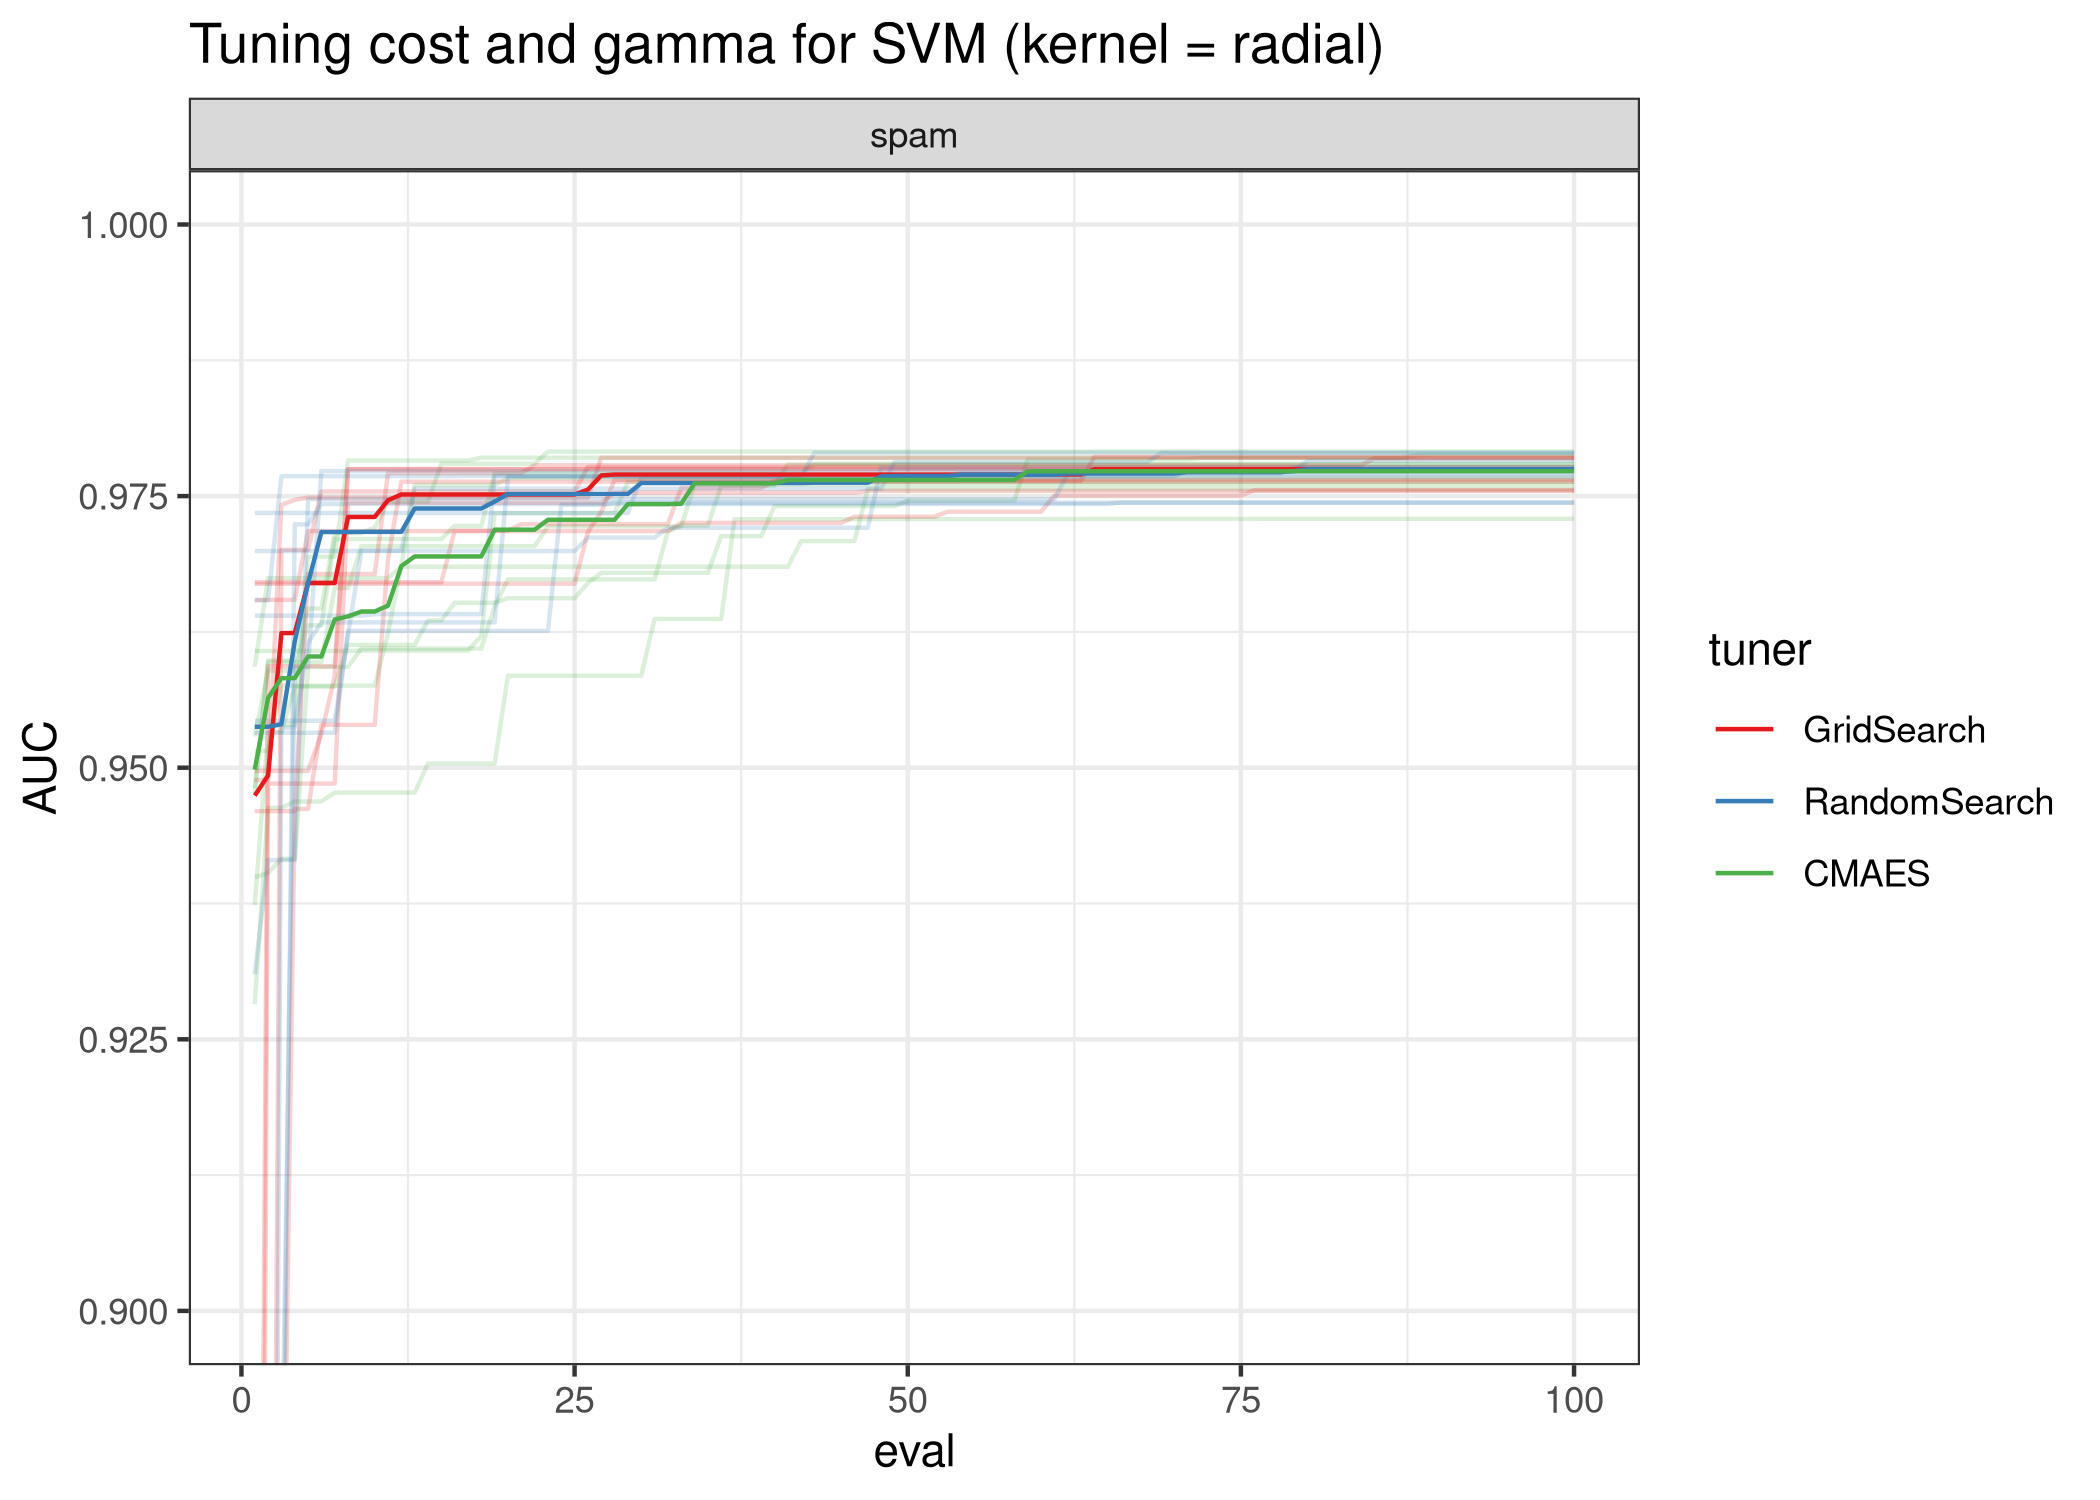
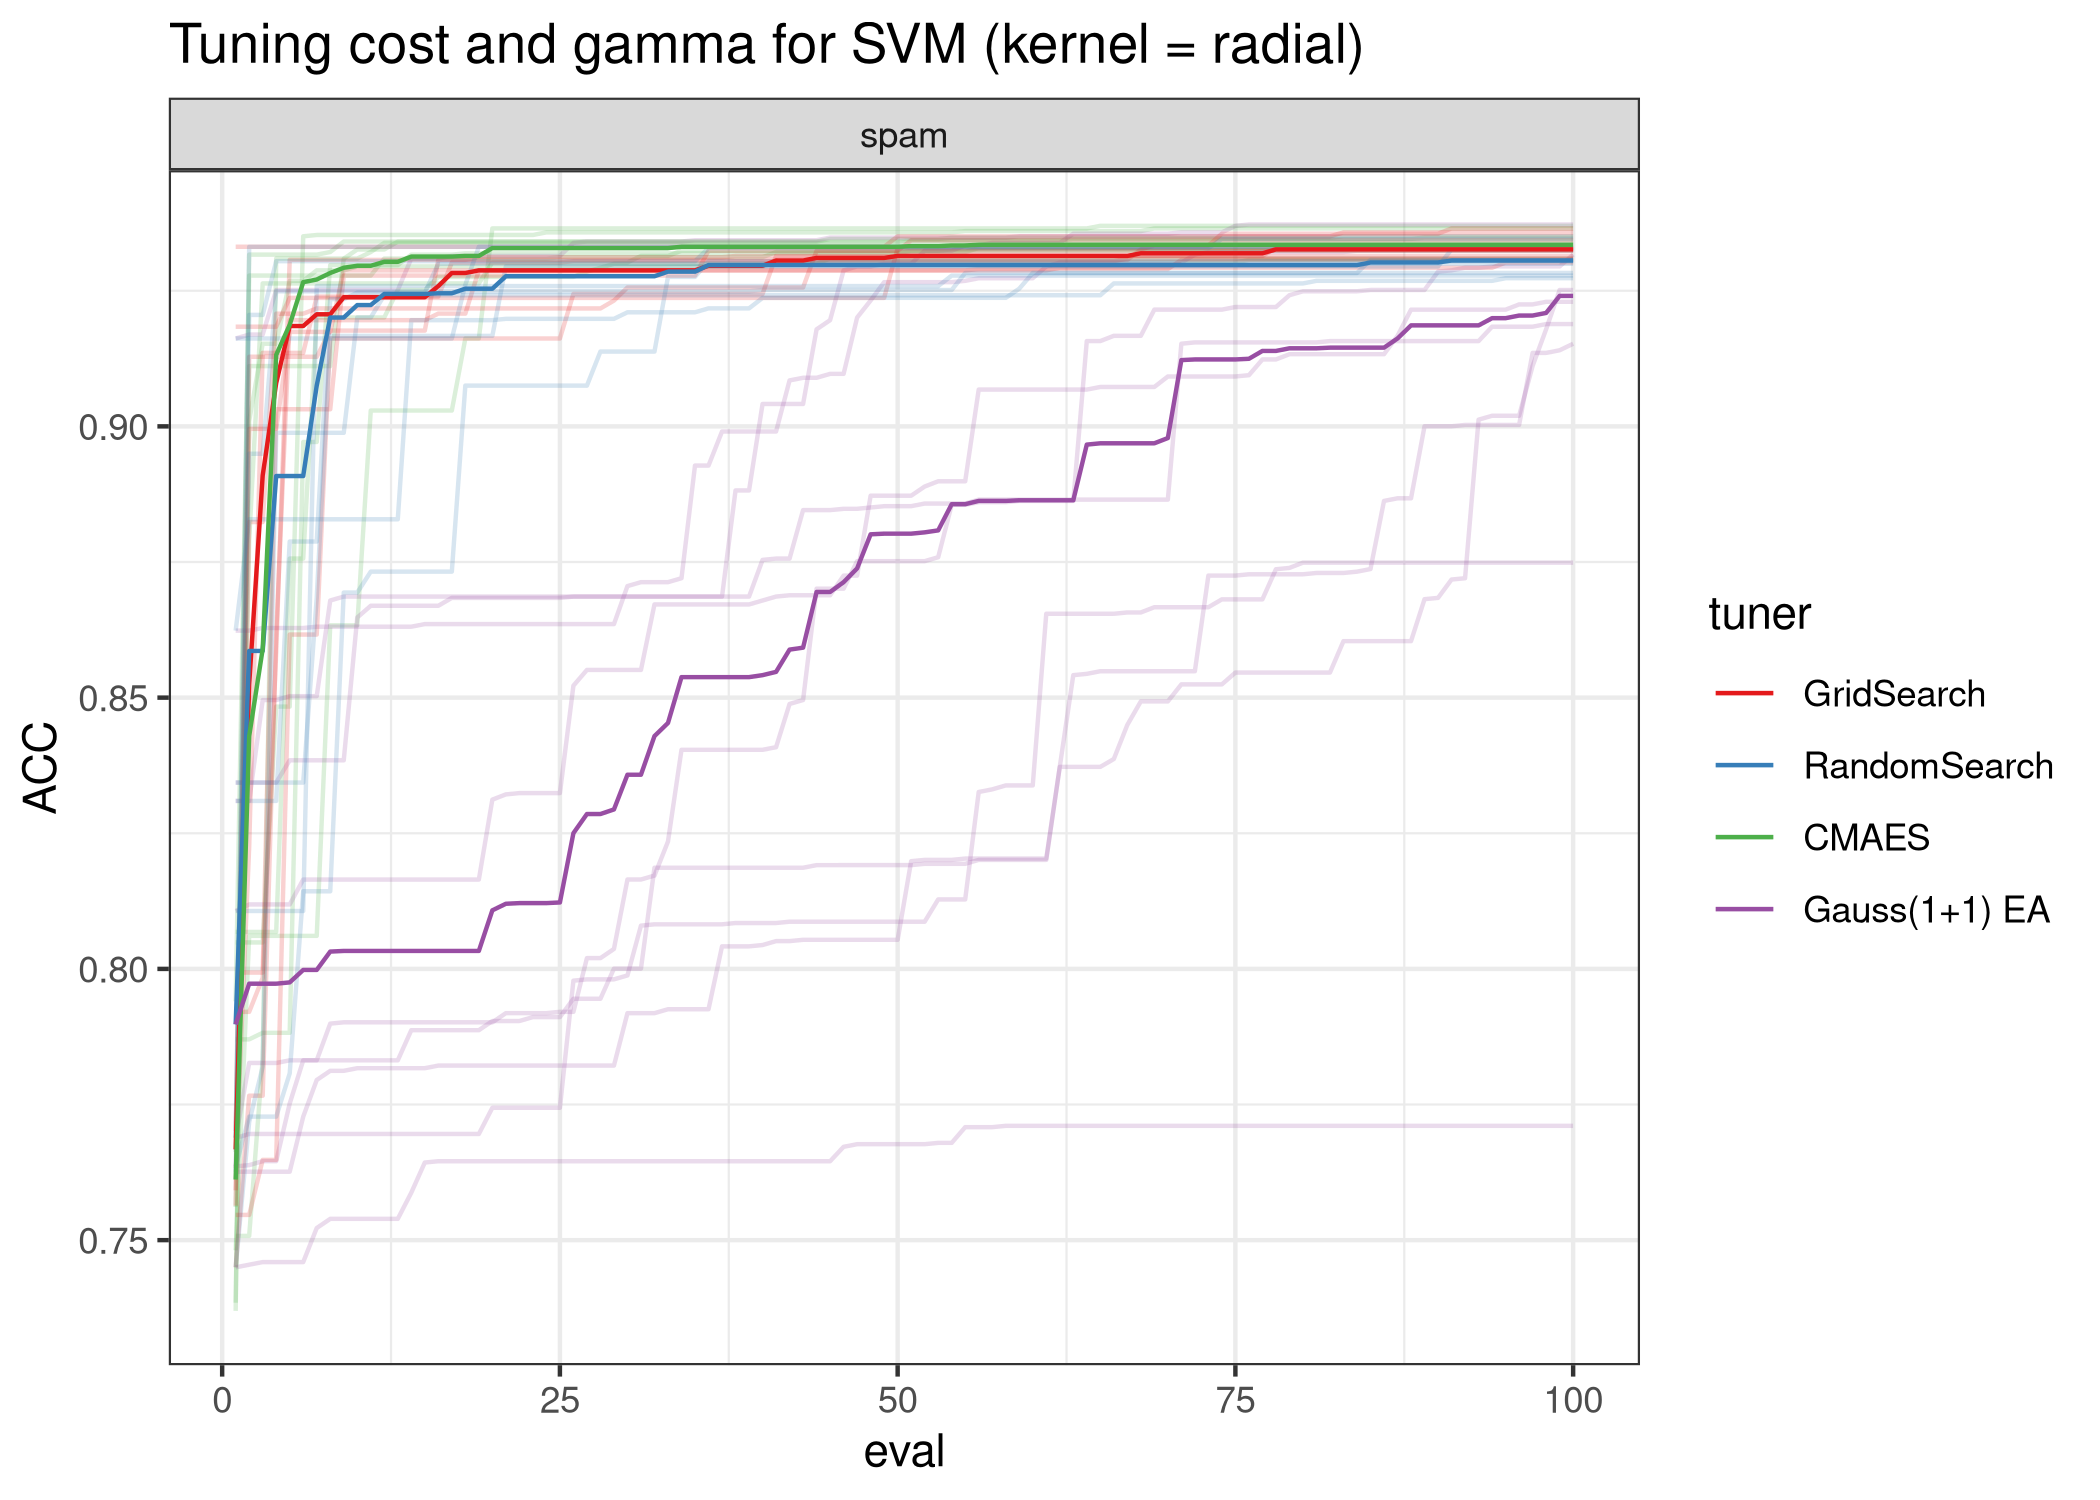
fixes ranges

diff --git a/w04_hpo_basics/t04_practical.tex b/w04_hpo_basics/t04_practical.tex
@@ -19,26 +19,44 @@
 \end{itemize}
 
     \vspace{0.2cm}
-Example: regularization hyperparameter ($C$ or \emph{cost}) of SVM: $[0.001, 1000.0]$
+Example: regularization hyperparameter ($C$ or \emph{cost}) of SVM: $[2^{-15}, 2^{15}] \approx [0.000031, 32768]$
 
 \begin{itemize}
-	\item The distance between $999.9$ and $1000.0$ should not be the same as between $0.1$ and $0.2$.
-  \item We might want to sample here from from a log-scale, e.g., $[10^{\conf_l}, 10^{\conf_u}]$ with $\conf_l = -3$ and $\conf_u = 3$.
+	\item The distance between $100$ and $200$ should not be the same as between $0.1$ and $0.2$.
+  \item We might want to sample here from from a log-scale, e.g., $[2^{\conf_l}, 2^{\conf_u}]$ with $\conf_l = -15$ and $\conf_u = 15$.
 \end{itemize}
 
 \begin{figure}[htb]
 \centering
+  % \begin{tikzpicture}[auto]%[scale=1.5]
+  %   \draw [->](-0.3,0)-- (12.3,0) coordinate;
+  %   \draw [->](-0.3,-2)-- (12.3,-2) coordinate;
+  %   \foreach \x/\xtext/\xxtext in {-3/-3/0.001, -2/-2/ , -1/-1/, 0/0/, 1/1/, 2/2/100, 3/3/1000} {
+  %     \draw [very thick] ({\x*2+6},-2pt) -- ++(0, 4pt) node[xshift = -6pt, yshift=-3pt,anchor=south west,baseline]{\strut$\xtext$};
+  %     \draw [very thick] ({10^(\x)*0.012},-2cm+2pt) -- ++(0,-4pt) node[anchor=north]{$\xxtext$};
+  %     \draw [->] ({\x*2+6},-2pt) .. controls ({\x*2+6},-0.5) and ({10^(\x)*0.012},-1.5) .. ({10^(\x)*0.012},-2cm+2pt);
+  %   }
+  %   \node[] at (-0.7,-0.1) (t1) {$\conf$};
+  %   \node[] at (-0.7,-1.9) (t2) {$10^{\conf}$};
+  % \end{tikzpicture}
+
   \begin{tikzpicture}[auto]%[scale=1.5]
     \draw [->](-0.3,0)-- (12.3,0) coordinate;
     \draw [->](-0.3,-2)-- (12.3,-2) coordinate;
-    \foreach \x/\xtext/\xxtext in {-3/-3/0.001, -2/-2/ , -1/-1/, 0/0/, 1/1/, 2/2/100, 3/3/1000} {
-      \draw [very thick] ({\x*2+6},-2pt) -- ++(0, 4pt) node[xshift = -6pt, yshift=-3pt,anchor=south west,baseline]{\strut$\xtext$};
-      \draw [very thick] ({10^(\x)*0.012},-2cm+2pt) -- ++(0,-4pt) node[anchor=north]{$\xxtext$};
-      \draw [->] ({\x*2+6},-2pt) .. controls ({\x*2+6},-0.5) and ({10^(\x)*0.012},-1.5) .. ({10^(\x)*0.012},-2cm+2pt);
+    % \foreach \x/\xtext/\xxtext in {-15/-15/0.000031, -10/-10/ , -5/-5/, 0/0/1, 5/5/32, 10/10/1024, 15/15/32768} {
+    \def\xM{15} % max exponent
+    \def\xW{12} % max width in cm
+    \foreach \x/\xtext/\xxtext in {-15/-15/0, -10/-10/ , -5/-5/, 0/0/, 5/5/, 10/10/1024, 15/15/32768} {
+      \def\xA{{(\x + \xM) * (\xW / (2 * \xM))}} %untrafoed val in cm (0 to 12)
+      \def\xB{{\xW * 2^(\x-\xM)}} %trafoed val in cm
+      \draw [very thick] (\xA,-2pt) -- ++(0, 4pt) node[xshift = -6pt, yshift=-3pt,anchor=south west,baseline]{\strut$\xtext$};
+      \draw [very thick] (\xB,-2cm+2pt) -- ++(0,-4pt) node[anchor=north]{\scriptsize $\xxtext$};
+      \draw [->] (\xA,-2pt) .. controls (\xA,-0.5) and (\xB,-1.5) .. (\xB,-2cm+2pt);
     }
-    \node[] at (-0.7,-0.1) (t1) {$\conf$};
-    \node[] at (-0.7,-1.9) (t2) {$10^{\conf}$};
+    \node[] at (-0.7,-0.1) (t1) {$\tilde{\theta}_l$};
+    \node[] at (-0.7,-1.9) (t2) {$2^{\tilde{\theta}_l}$};
   \end{tikzpicture}
+
 \end{figure}
 
 \framebreak
@@ -49,12 +67,12 @@ Example: regularization hyperparameter ($C$ or \emph{cost}) of SVM: $[0.001, 100
         \item If $\finconf$ is close to the border of $\pcs$ the ranges should be increased (or a different scale should be selected).
         \item Meta-Learning can help to decide which hyperparameters should be tuned in which ranges.
     \end{itemize}
-    \vspace{0.5cm}
-    Example:
-    \begin{itemize}
-            \item The ranges for $\text{cost} \in [10^{-3}, 10^3]$ and $\gamma \in [10^{-3}, 10^3]$ are rather small.
-            \item More common would be ranges like $\text{cost} \in [2^{-15}, 2^{15}]$ and $\gamma \in [2^{-15}, 2^{15}]$.
-    \end{itemize}
+    % \vspace{0.5cm}
+    % Example:
+    % \begin{itemize}
+    %         \item The ranges for $\text{cost} \in [10^{-3}, 10^3]$ and $\gamma \in [10^{-3}, 10^3]$ are rather small.
+    %         \item More common would be ranges like $\text{cost} \in [2^{-15}, 2^{15}]$ and $\gamma \in [2^{-15}, 2^{15}]$.
+    % \end{itemize}
 
 \end{frame}
 
@@ -69,8 +87,8 @@ Example: regularization hyperparameter ($C$ or \emph{cost}) of SVM: $[0.001, 100
         \item The learning algorithm is a support vector machine (SVM) with RBF kernel.
         \item The hyperparmeters we optimize are
             \begin{itemize}
-                \item Cost parameter $\text{cost} \in [10^{-3}, 10^3]$.
-                \item Kernel parameter $\gamma \in [10^{-3}, 10^3]$.
+                \item Cost parameter $\text{cost} \in [2^{-5}, 2^5]$.
+                \item Kernel parameter $\gamma \in [2^{-5}, 2^5]$.
             \end{itemize}
         \item We compare three different optimizer
             \begin{itemize}
@@ -101,7 +119,10 @@ Example: regularization hyperparameter ($C$ or \emph{cost}) of SVM: $[0.001, 100
 
   \begin{itemize}
       \item Both \emph{Grid search} and \emph{random search} have many evaluations in regions with bad performance ($\gamma>1$).
-    \item \emph{CMAES} only explores a small region.
+      \item \emph{CMAES} only explores a small region.
+      \item \emph{Gauss(1+1) EA} does not converge.
+      \item The ranges for $\text{cost} \in [2^{-5}, 2^5]$ and $\gamma \in [2^{-5}, 2^5]$ are rather small.
+      \item More common would be ranges like $\text{cost} \in [2^{-15}, 2^{15}]$ and $\gamma \in [2^{-15}, 2^{15}]$.
   \end{itemize}
 \end{column}%
 \begin{column}{0.5\textwidth}
